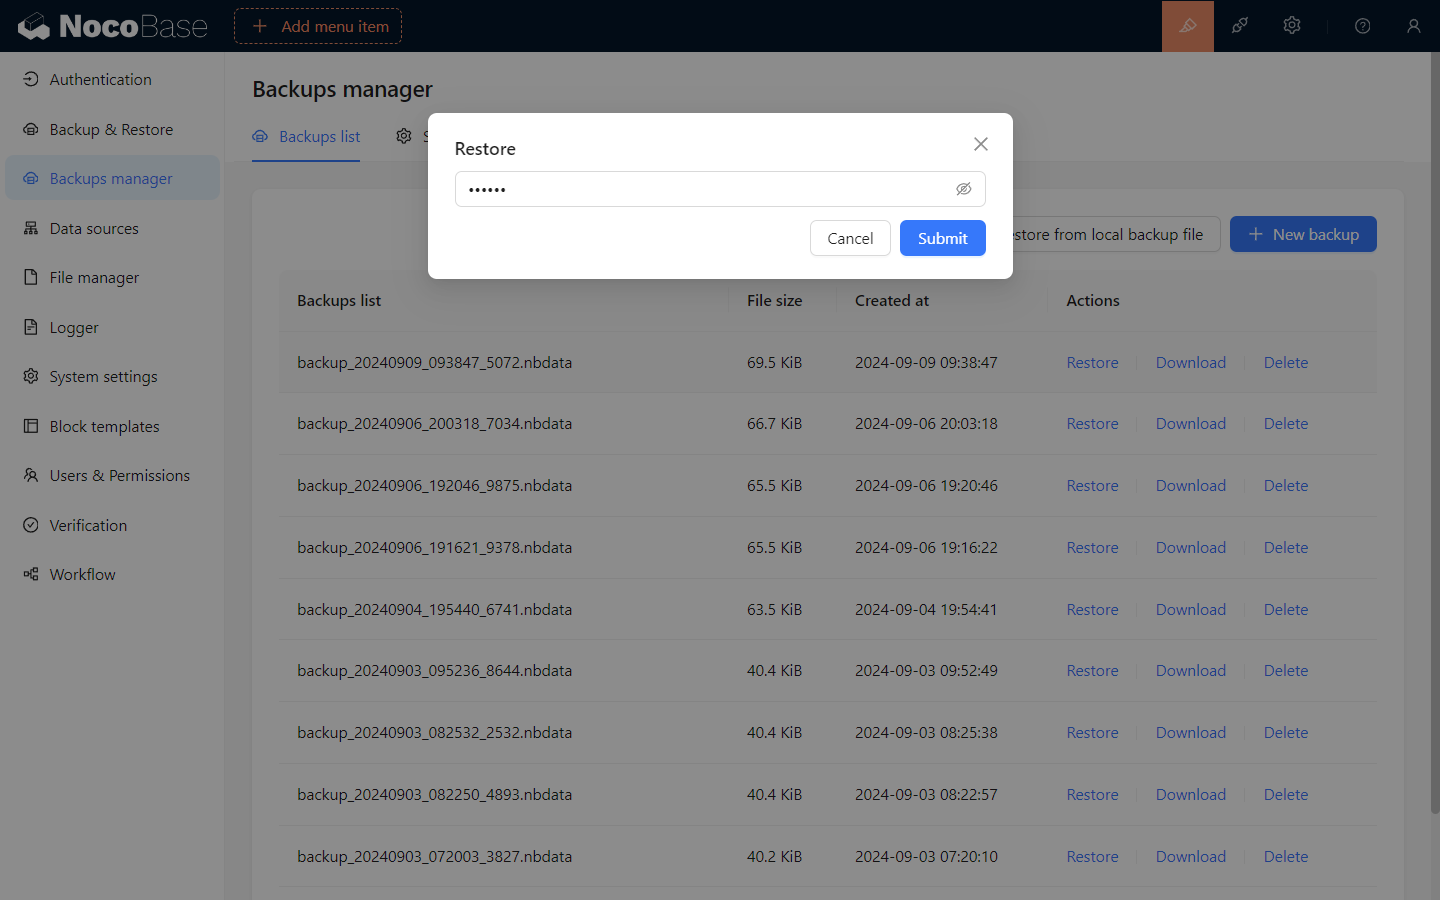
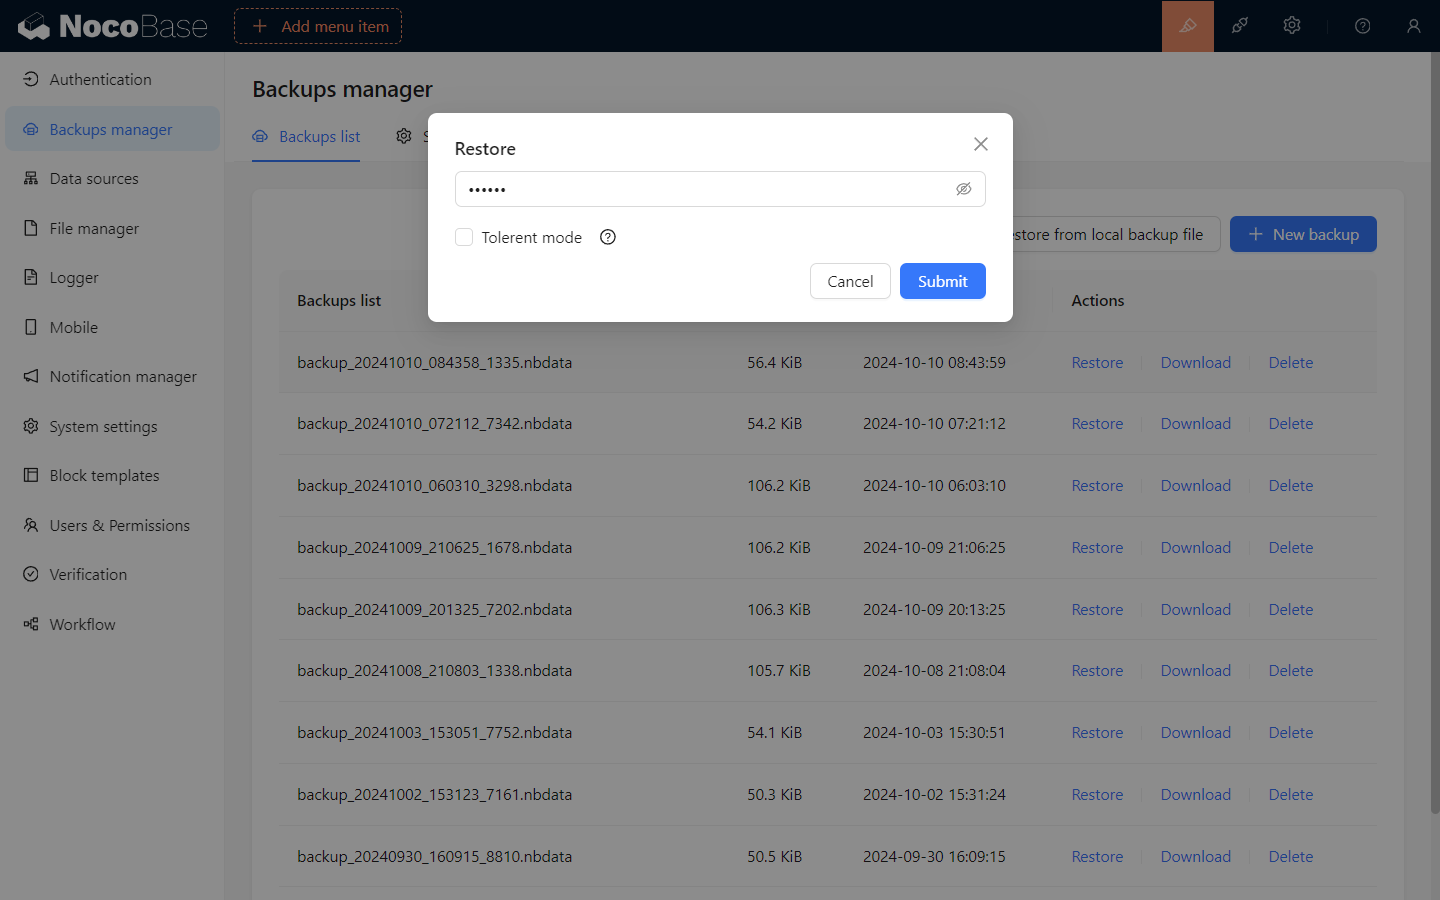
docs: add tolerent mode for plugin-backups

diff --git a/docs/en-US/handbook/backups/index.md b/docs/en-US/handbook/backups/index.md
@@ -37,6 +37,7 @@ Restore operations are not allowed in the following scenarios:
   - underscored
   - table prefix
   - schema
+- When the `Tolerant mode` is not enabled, and the database version when creating the backup is higher than the current application database version.
 
 > **Restore is a full database operation. It is recommended to back up the current database before restoring a backup.**
 
@@ -44,6 +45,7 @@ Restore operations are not allowed in the following scenarios:
 
 Click the "Restore" button of the backup item in the backup list, enter the backup file encryption password in the pop-up window, and click "Confirm" to restore the backup.
 > Leave password empty for unencrypted backup.
+> If you need to restore the backup to a lower version of the database, you need to enable the tolerant mode.
 
 ![Restore Backup](./static/restore-backup.png)
 
@@ -51,6 +53,7 @@ Click the "Restore" button of the backup item in the backup list, enter the back
 
 Click the "Restore from local backup" button, select the local backup file in the pop-up window, enter the backup file encryption password, and click "Confirm" to restore the backup.
 > Leave password empty for unencrypted backup.
+> If you need to restore the backup to a lower version of the database, you need to enable the tolerant mode.
 
 ![Restore from Local Backup](./static/restore-from-local.png)
 
